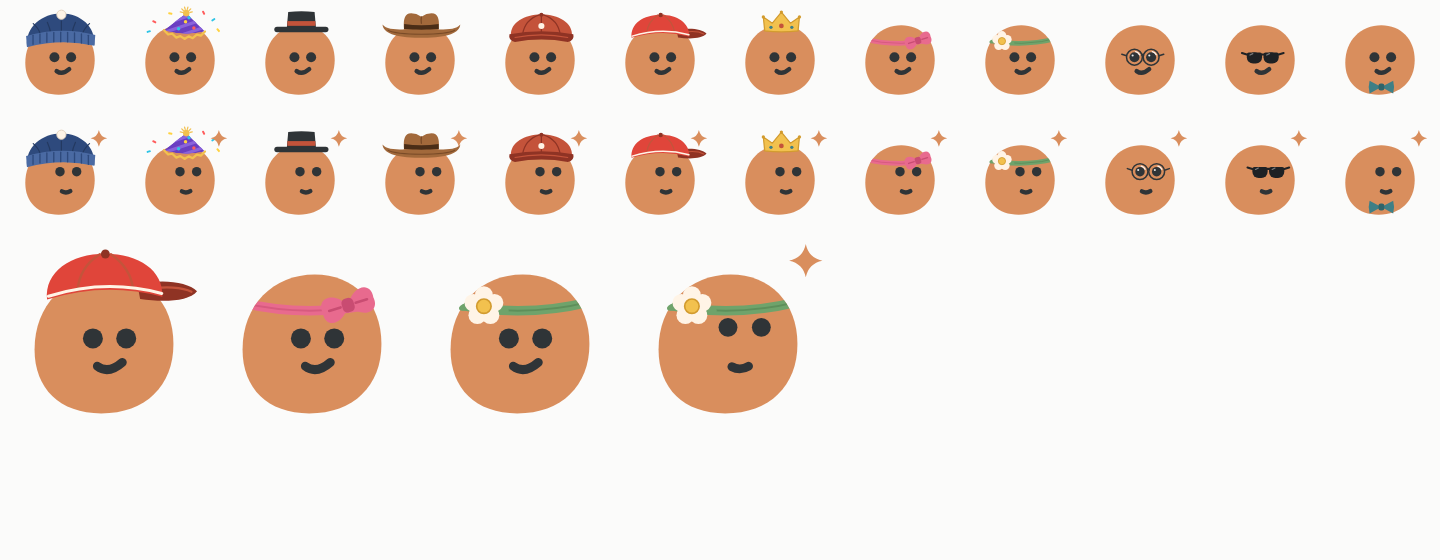
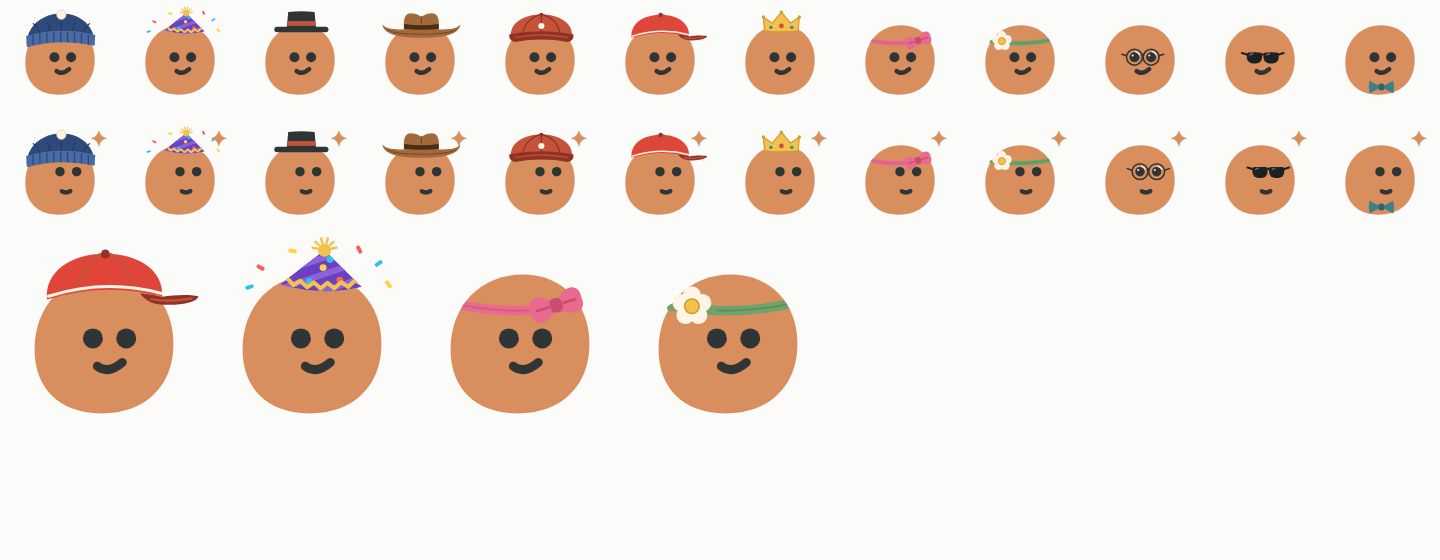
fix(porty): visera de la gorrita desde el costado y ribete del gorro de cumpleaños dentro del gorro
Claude-Session: https://claude.ai/code/session_014X6FgJPz2fjdo9EZLy7TFG

diff --git a/lib/features/assistant/view/widgets/porty_accessory_painter.dart b/lib/features/assistant/view/widgets/porty_accessory_painter.dart
@@ -170,16 +170,24 @@ abstract final class PortyAccessoryPainter {
     ]) {
       canvas.drawCircle(dot, 1.25, _fill(color));
     }
-    canvas.restore();
-    // Ribete en zigzag sobre la base.
-    final trim = Path()..moveTo(20.5, 10.5);
-    for (var i = 1; i <= 10; i++) {
-      final t = i / 10;
-      final x = 20.5 + 29.5 * t;
-      final y = 10.5 + 4.5 * math.sin(math.pi * t) * 0.9 + 1 * t;
-      trim.lineTo(x, i.isOdd ? y + 1.8 : y);
+    // Ribete en zigzag dentro del gorro, siguiendo la curva de la base
+    // (recortado al gorro: nunca pisa la cara).
+    Offset base(double t) {
+      const a = Offset(20.5, 10.5);
+      const c = Offset(35, 15);
+      const b = Offset(50, 11.5);
+      final u = 1 - t;
+      return a * (u * u) + c * (2 * u * t) + b * (t * t);
     }
-    canvas.drawPath(trim, _stroke(_gold, 1.6));
+
+    final trim = Path()..moveTo(base(0).dx, base(0).dy - 1);
+    for (var i = 1; i <= 12; i++) {
+      final p = base(i / 12);
+      trim.lineTo(p.dx, p.dy - (i.isOdd ? 3 : 1));
+    }
+    canvas
+      ..drawPath(trim, _stroke(_gold, 1.5))
+      ..restore();
     // Pompón con destellos.
     final burst = _stroke(_gold, 0.9);
     for (var i = 0; i < 6; i++) {
@@ -324,20 +332,6 @@ abstract final class PortyAccessoryPainter {
   /// Gorrita con visera de costado: copa redonda en gajos, botón arriba,
   /// visera hacia la derecha y una costura clara.
   static void _peakedCap(Canvas canvas) {
-    final visor =
-        Path()
-          ..moveTo(44, 10.5)
-          ..cubicTo(53, 8.5, 62, 9.5, 65.5, 13)
-          ..cubicTo(62.5, 16.8, 53, 17, 45, 15.8)
-          ..close();
-    canvas
-      ..drawPath(visor, _fill(_redDark))
-      ..drawPath(
-        Path()
-          ..moveTo(47, 12.4)
-          ..cubicTo(54, 11, 60.5, 11.6, 63.5, 13.2),
-        _stroke(_red, 0.8),
-      );
     final crown =
         Path()
           ..moveTo(11.5, 16)
@@ -368,6 +362,24 @@ abstract final class PortyAccessoryPainter {
         _stroke(_cream, 1.1),
       )
       ..drawCircle(const Offset(32.5, -0.4), 1.6, _fill(_redDark));
+    // Visera: nace del borde de la copa (su borde de arriba ES el borde de
+    // la copa) y sale por delante hacia la derecha, apenas hacia abajo.
+    final visor =
+        Path()
+          ..moveTo(45, 13.7)
+          ..quadraticBezierTo(49.5, 14.2, 53, 15)
+          ..cubicTo(57, 14.4, 62, 14, 66, 14.8)
+          ..cubicTo(65.4, 16.8, 61.5, 17.8, 55, 17.9)
+          ..cubicTo(50.5, 18, 47, 16.8, 45, 13.7)
+          ..close();
+    canvas
+      ..drawPath(visor, _fill(_redDark))
+      ..drawPath(
+        Path()
+          ..moveTo(49, 15.9)
+          ..cubicTo(53, 16.6, 59, 16.4, 63.5, 15.6),
+        _stroke(_red, 0.8),
+      );
   }
 
   /// Vincha que cruza la frente de lado a lado, arriba de los ojos,
